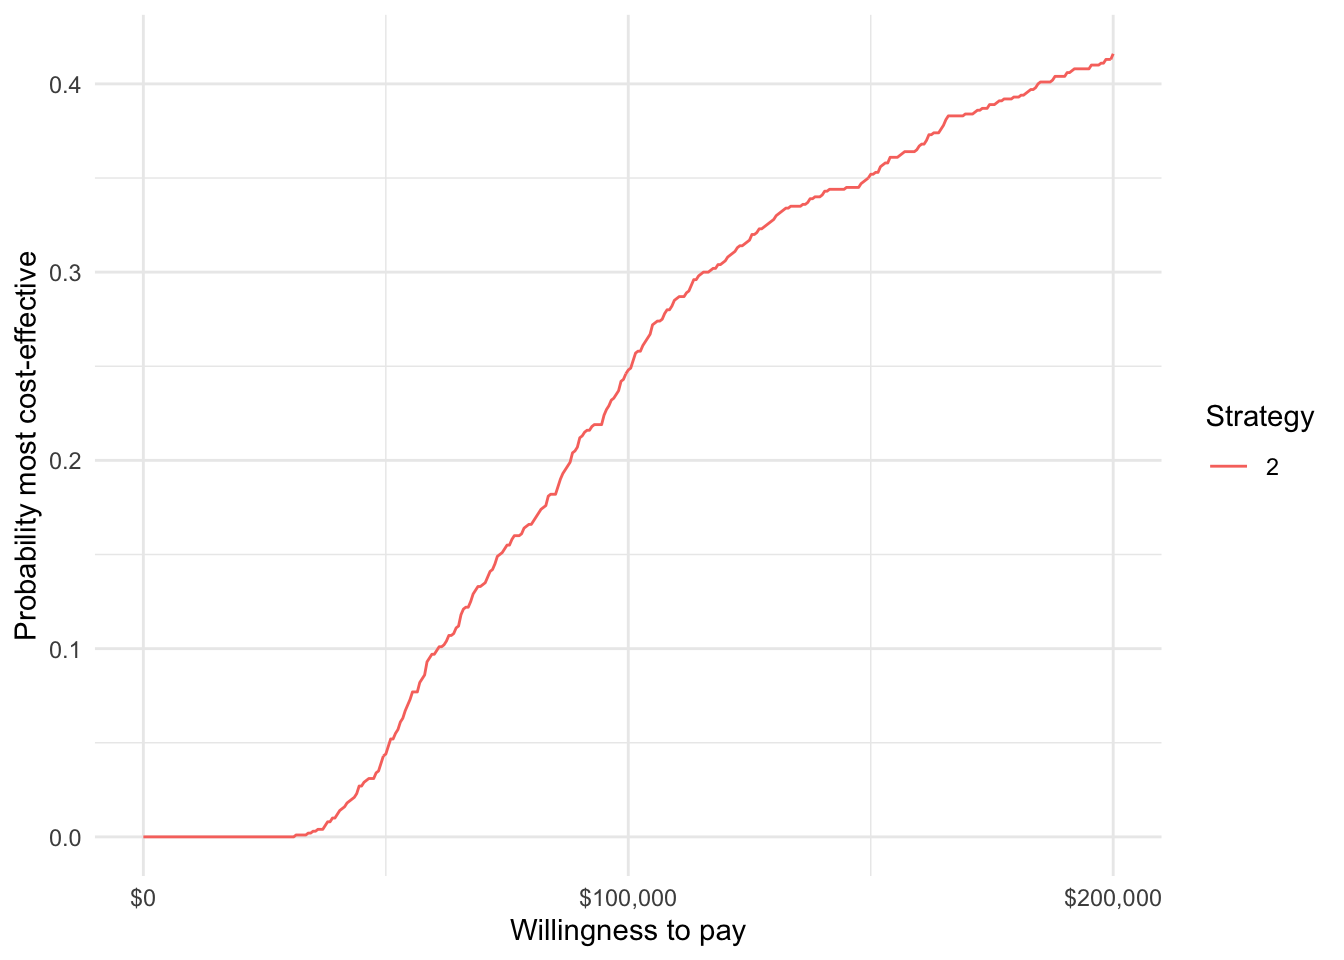
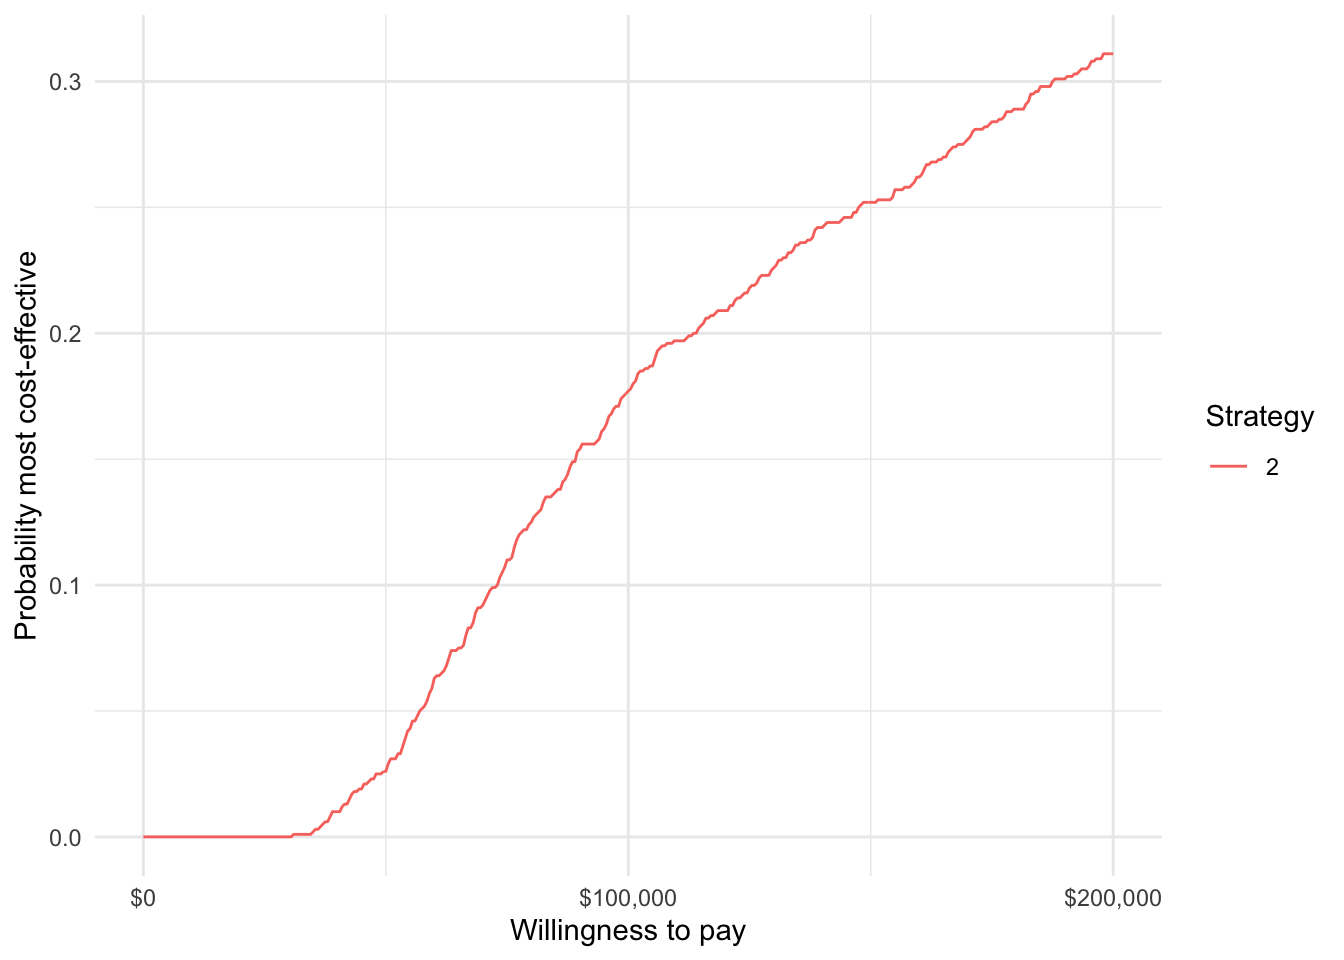
Fix errors from Travis build

diff --git a/docs/dev/articles/intro.html b/docs/dev/articles/intro.html
@@ -199,17 +199,17 @@ Individual-level continuous time state transition model (iCTSTM)
 ## 
 ## $patients
 ##       patient_id      age female
-##    1:          1 40.21585      1
-##    2:          2 36.96125      0
-##    3:          3 48.92418      0
-##    4:          4 50.23832      1
-##    5:          5 40.83059      1
+##    1:          1 40.28067      1
+##    2:          2 48.09711      1
+##    3:          3 35.23541      1
+##    4:          4 41.44403      1
+##    5:          5 45.52459      1
 ##   ---                           
-##  996:        996 39.02014      1
-##  997:        997 42.86669      1
-##  998:        998 42.91595      0
-##  999:        999 43.41412      1
-## 1000:       1000 50.29658      0
+##  996:        996 41.36511      1
+##  997:        997 43.96101      1
+##  998:        998 56.29249      0
+##  999:        999 56.32596      1
+## 1000:       1000 40.10561      0
 ## 
 ## $states
 ##    state_id state_name
@@ -318,7 +318,7 @@ Multi-state model (transition-specific)
 <p>Disease models can either be fit from an explicit statistical model or through mathematical expressions. In the first case, the easiest way to parameterize a disease model is by fitting a statistical model using <code>R</code>. For example, survival models and multi-state models can be fit using <code><a href="https://www.rdocumentation.org/packages/flexsurv/topics/flexsurvreg">flexsurv::flexsurvreg()</a></code> while multinomial logistic regressions can be fit with <code><a href="https://www.rdocumentation.org/packages/nnet/topics/multinom">nnet::multinom()</a></code>. In other cases, the disease models will not be fit directly with <code>R</code>, but the estimates of a disease model can be directly stored in parameter (<code><a href="../reference/params.html">hesim::params</a></code>) or transformed parameter (<code><a href="../reference/tparams.html">hesim::tparams</a></code>) objects. In the second case, an entire model (encompassing disease progression, costs, and utility) can be defined in terms of mathematical expressions with <code><a href="../reference/define_model.html">hesim::define_model()</a></code>.</p>
 <p>We will illustrate an example of a statistical model of disease progression fit with <code>R</code> by estimating a multi-state model with a joint likelihood using <code><a href="https://www.rdocumentation.org/packages/flexsurv/topics/flexsurvreg">flexsurv::flexsurvreg()</a></code>.</p>
 <div class="sourceCode" id="cb3"><pre class="sourceCode r"><code class="sourceCode r"><span id="cb3-1"><a href="#cb3-1"></a><span class="kw"><a href="https://www.rdocumentation.org/packages/base/topics/library">library</a></span>(<span class="st">"flexsurv"</span>)</span>
-<span id="cb3-2"><a href="#cb3-2"></a>mstate_data &lt;-<span class="st"> </span><span class="kw"><a href="https://www.rdocumentation.org/packages/data.table/topics/data.table">data.table</a></span>(ctstm3_exdata<span class="op">$</span>transitions)</span>
+<span id="cb3-2"><a href="#cb3-2"></a>mstate_data &lt;-<span class="st"> </span><span class="kw"><a href="https://www.rdocumentation.org/packages/data.table/topics/data.table">data.table</a></span>(mstate3_exdata<span class="op">$</span>transitions)</span>
 <span id="cb3-3"><a href="#cb3-3"></a>mstate_data[, trans <span class="op">:</span><span class="er">=</span><span class="st"> </span><span class="kw"><a href="https://www.rdocumentation.org/packages/base/topics/factor">factor</a></span>(trans)]</span>
 <span id="cb3-4"><a href="#cb3-4"></a>fit_wei &lt;-<span class="st"> </span>flexsurv<span class="op">::</span><span class="kw"><a href="https://www.rdocumentation.org/packages/flexsurv/topics/flexsurvreg">flexsurvreg</a></span>(<span class="kw">Surv</span>(years, status) <span class="op">~</span><span class="st"> </span>trans <span class="op">+</span><span class="st"> </span></span>
 <span id="cb3-5"><a href="#cb3-5"></a><span class="st">                                                       </span><span class="kw"><a href="https://www.rdocumentation.org/packages/base/topics/factor">factor</a></span>(strategy_id)<span class="op">:</span>trans <span class="op">+</span></span>
@@ -372,19 +372,19 @@ Linear model
 <p>Linear models are fit using <code><a href="https://www.rdocumentation.org/packages/stats/topics/lm">stats::lm()</a></code>. Predicted means are most easily constructed from a <code><a href="../reference/stateval_tbl.html">hesim::stateval_tbl</a></code> object, which is a special object used to assign values to health states. The table allows users to specify mean values that can vary across health states, treatment strategies, patients, and/or time intervals. State values can be specified either as moments (i.e., mean and standard error) or parameters (e.g., shape and scale of gamma distribution) of a probability distribution, or by pre-simulating values from a suitable probability distribution. Here we will use <code><a href="../reference/stateval_tbl.html">hesim::stateval_tbl</a></code> objects for utility and two cost categories (drug and medical).</p>
 <div class="sourceCode" id="cb4"><pre class="sourceCode r"><code class="sourceCode r"><span id="cb4-1"><a href="#cb4-1"></a><span class="co"># Utility</span></span>
 <span id="cb4-2"><a href="#cb4-2"></a>utility_tbl &lt;-<span class="st"> </span><span class="kw"><a href="../reference/stateval_tbl.html">stateval_tbl</a></span>(<span class="kw"><a href="https://www.rdocumentation.org/packages/data.table/topics/data.table">data.table</a></span>(<span class="dt">state_id =</span> states<span class="op">$</span>state_id,</span>
-<span id="cb4-3"><a href="#cb4-3"></a>                                       <span class="dt">mean =</span> ctstm3_exdata<span class="op">$</span>utility<span class="op">$</span>mean,</span>
-<span id="cb4-4"><a href="#cb4-4"></a>                                       <span class="dt">se =</span> ctstm3_exdata<span class="op">$</span>utility<span class="op">$</span>se),</span>
+<span id="cb4-3"><a href="#cb4-3"></a>                                       <span class="dt">mean =</span> mstate3_exdata<span class="op">$</span>utility<span class="op">$</span>mean,</span>
+<span id="cb4-4"><a href="#cb4-4"></a>                                       <span class="dt">se =</span> mstate3_exdata<span class="op">$</span>utility<span class="op">$</span>se),</span>
 <span id="cb4-5"><a href="#cb4-5"></a>                            <span class="dt">dist =</span> <span class="st">"beta"</span>,</span>
 <span id="cb4-6"><a href="#cb4-6"></a>                            <span class="dt">hesim_data =</span> hesim_dat)</span>
 <span id="cb4-7"><a href="#cb4-7"></a></span>
 <span id="cb4-8"><a href="#cb4-8"></a><span class="co"># Costs</span></span>
 <span id="cb4-9"><a href="#cb4-9"></a>drugcost_tbl &lt;-<span class="st"> </span><span class="kw"><a href="../reference/stateval_tbl.html">stateval_tbl</a></span>(<span class="kw"><a href="https://www.rdocumentation.org/packages/data.table/topics/data.table">data.table</a></span>(<span class="dt">strategy_id =</span> strategies<span class="op">$</span>strategy_id,</span>
-<span id="cb4-10"><a href="#cb4-10"></a>                                       <span class="dt">est =</span> ctstm3_exdata<span class="op">$</span>costs<span class="op">$</span>drugs<span class="op">$</span>costs),</span>
+<span id="cb4-10"><a href="#cb4-10"></a>                                       <span class="dt">est =</span> mstate3_exdata<span class="op">$</span>costs<span class="op">$</span>drugs<span class="op">$</span>costs),</span>
 <span id="cb4-11"><a href="#cb4-11"></a>                            <span class="dt">dist =</span> <span class="st">"fixed"</span>,</span>
 <span id="cb4-12"><a href="#cb4-12"></a>                            <span class="dt">hesim_data =</span> hesim_dat) </span>
 <span id="cb4-13"><a href="#cb4-13"></a>medcost_tbl &lt;-<span class="st"> </span><span class="kw"><a href="../reference/stateval_tbl.html">stateval_tbl</a></span>(<span class="kw"><a href="https://www.rdocumentation.org/packages/data.table/topics/data.table">data.table</a></span>(<span class="dt">state_id =</span> states<span class="op">$</span>state_id,</span>
-<span id="cb4-14"><a href="#cb4-14"></a>                                       <span class="dt">mean =</span> ctstm3_exdata<span class="op">$</span>costs<span class="op">$</span>medical<span class="op">$</span>mean,</span>
-<span id="cb4-15"><a href="#cb4-15"></a>                                       <span class="dt">se =</span> ctstm3_exdata<span class="op">$</span>costs<span class="op">$</span>medical<span class="op">$</span>se),</span>
+<span id="cb4-14"><a href="#cb4-14"></a>                                       <span class="dt">mean =</span> mstate3_exdata<span class="op">$</span>costs<span class="op">$</span>medical<span class="op">$</span>mean,</span>
+<span id="cb4-15"><a href="#cb4-15"></a>                                       <span class="dt">se =</span> mstate3_exdata<span class="op">$</span>costs<span class="op">$</span>medical<span class="op">$</span>se),</span>
 <span id="cb4-16"><a href="#cb4-16"></a>                            <span class="dt">dist =</span> <span class="st">"gamma"</span>,</span>
 <span id="cb4-17"><a href="#cb4-17"></a>                            <span class="dt">hesim_data =</span> hesim_dat)  </span></code></pre></div>
 </div>
@@ -467,12 +467,12 @@ Cost model(s)
 <span id="cb6-2"><a href="#cb6-2"></a>                        <span class="dt">by =</span> <span class="kw"><a href="https://www.rdocumentation.org/packages/base/topics/c">c</a></span>(<span class="st">"strategies"</span>, <span class="st">"patients"</span>, <span class="st">"transitions"</span>))</span>
 <span id="cb6-3"><a href="#cb6-3"></a><span class="kw"><a href="https://www.rdocumentation.org/packages/utils/topics/head">head</a></span>(transmod_data)</span></code></pre></div>
 <pre><code>##    strategy_id patient_id transition_id      age female from to from_name
-## 1:           1          1             1 40.21585      1    1  2   Healthy
-## 2:           1          1             2 40.21585      1    1  3   Healthy
-## 3:           1          1             3 40.21585      1    2  1      Sick
-## 4:           1          1             4 40.21585      1    2  3      Sick
-## 5:           1          2             1 36.96125      0    1  2   Healthy
-## 6:           1          2             2 36.96125      0    1  3   Healthy
+## 1:           1          1             1 40.28067      1    1  2   Healthy
+## 2:           1          1             2 40.28067      1    1  3   Healthy
+## 3:           1          1             3 40.28067      1    2  1      Sick
+## 4:           1          1             4 40.28067      1    2  3      Sick
+## 5:           1          2             1 48.09711      1    1  2   Healthy
+## 6:           1          2             2 48.09711      1    1  3   Healthy
 ##    to_name trans
 ## 1:    Sick     1
 ## 2:    Dead     2
@@ -580,43 +580,43 @@ $sim_costs()
 <div class="sourceCode" id="cb14"><pre class="sourceCode r"><code class="sourceCode r"><span id="cb14-1"><a href="#cb14-1"></a>ictstm<span class="op">$</span><span class="kw">sim_disease</span>()</span>
 <span id="cb14-2"><a href="#cb14-2"></a><span class="kw"><a href="https://www.rdocumentation.org/packages/utils/topics/head">head</a></span>(ictstm<span class="op">$</span>disprog_)</span></code></pre></div>
 <pre><code>##    sample strategy_id patient_id grp_id from to final time_start time_stop
-## 1:      1           1          1      1    1  2     0   0.000000  9.031774
-## 2:      1           1          1      1    2  1     0   9.031774 10.743450
-## 3:      1           1          1      1    1  2     0  10.743450 11.351767
-## 4:      1           1          1      1    2  1     0  11.351767 15.359618
-## 5:      1           1          1      1    1  2     0  15.359618 15.534958
-## 6:      1           1          1      1    2  1     0  15.534958 16.379295</code></pre>
+## 1:      1           1          1      1    1  3     1   0.000000 13.886559
+## 2:      1           1          2      1    1  2     0   0.000000  2.457967
+## 3:      1           1          2      1    2  1     0   2.457967  2.874922
+## 4:      1           1          2      1    1  2     0   2.874922  5.359380
+## 5:      1           1          2      1    2  1     0   5.359380  5.461666
+## 6:      1           1          2      1    1  2     0   5.461666  7.149314</code></pre>
 <p>The disease trajectory can be summarized with <code>$sim_stateprobs()</code>.</p>
 <div class="sourceCode" id="cb16"><pre class="sourceCode r"><code class="sourceCode r"><span id="cb16-1"><a href="#cb16-1"></a>ictstm<span class="op">$</span><span class="kw">sim_stateprobs</span>(<span class="dt">t =</span> <span class="kw"><a href="https://www.rdocumentation.org/packages/base/topics/c">c</a></span>(<span class="dv">0</span><span class="op">:</span><span class="dv">10</span>))</span>
 <span id="cb16-2"><a href="#cb16-2"></a><span class="kw"><a href="https://www.rdocumentation.org/packages/utils/topics/head">head</a></span>(ictstm<span class="op">$</span>stateprobs_)</span></code></pre></div>
 <pre><code>##    sample strategy_id grp_id state_id t  prob
 ## 1:      1           1      1        1 0 1.000
-## 2:      1           1      1        1 1 0.897
-## 3:      1           1      1        1 2 0.802
-## 4:      1           1      1        1 3 0.742
-## 5:      1           1      1        1 4 0.682
-## 6:      1           1      1        1 5 0.653</code></pre>
+## 2:      1           1      1        1 1 0.867
+## 3:      1           1      1        1 2 0.794
+## 4:      1           1      1        1 3 0.711
+## 5:      1           1      1        1 4 0.675
+## 6:      1           1      1        1 5 0.609</code></pre>
 <p>We can then compute costs and QALYs (using a discount rate of 3 percent).</p>
 <div class="sourceCode" id="cb18"><pre class="sourceCode r"><code class="sourceCode r"><span id="cb18-1"><a href="#cb18-1"></a><span class="co"># QALYs</span></span>
 <span id="cb18-2"><a href="#cb18-2"></a>ictstm<span class="op">$</span><span class="kw"><a href="../reference/sim_ev.html">sim_qalys</a></span>(<span class="dt">dr =</span> <span class="fl">.03</span>)</span>
 <span id="cb18-3"><a href="#cb18-3"></a><span class="kw"><a href="https://www.rdocumentation.org/packages/utils/topics/head">head</a></span>(ictstm<span class="op">$</span>qalys_)</span></code></pre></div>
-<pre><code>##    sample strategy_id grp_id state_id   dr    qalys       lys
-## 1:      1           1      1        1 0.03 8.528762 10.417173
-## 2:      1           1      1        2 0.03 1.567915  1.734929
-## 3:      1           2      1        1 0.03 7.501061  9.161922
-## 4:      1           2      1        2 0.03 1.009596  1.117138
-## 5:      2           1      1        1 0.03 5.514620  9.293247
-## 6:      2           1      1        2 0.03 1.575362  1.632139</code></pre>
+<pre><code>##    sample strategy_id grp_id state_id   dr    qalys      lys
+## 1:      1           1      1        1 0.03 4.058282 9.220242
+## 2:      1           1      1        2 0.03 1.568368 1.568416
+## 3:      1           2      1        1 0.03 3.826450 8.693529
+## 4:      1           2      1        2 0.03 1.348586 1.348627
+## 5:      2           1      1        1 0.03 4.679780 9.544911
+## 6:      2           1      1        2 0.03 1.981412 1.981511</code></pre>
 <div class="sourceCode" id="cb20"><pre class="sourceCode r"><code class="sourceCode r"><span id="cb20-1"><a href="#cb20-1"></a><span class="co"># Costs</span></span>
 <span id="cb20-2"><a href="#cb20-2"></a>ictstm<span class="op">$</span><span class="kw"><a href="../reference/sim_ev.html">sim_costs</a></span>(<span class="dt">dr =</span> <span class="fl">.03</span>)</span>
 <span id="cb20-3"><a href="#cb20-3"></a><span class="kw"><a href="https://www.rdocumentation.org/packages/utils/topics/head">head</a></span>(ictstm<span class="op">$</span>costs_)</span></code></pre></div>
 <pre><code>##    sample strategy_id grp_id state_id   dr category     costs
-## 1:      1           1      1        1 0.03    drugs 52085.866
-## 2:      1           1      1        2 0.03    drugs  8674.645
-## 3:      1           2      1        1 0.03    drugs 91619.220
-## 4:      1           2      1        2 0.03    drugs 11171.379
-## 5:      2           1      1        1 0.03    drugs 46466.236
-## 6:      2           1      1        2 0.03    drugs  8160.696</code></pre>
+## 1:      1           1      1        1 0.03    drugs 46101.210
+## 2:      1           1      1        2 0.03    drugs  7842.078
+## 3:      1           2      1        1 0.03    drugs 86935.293
+## 4:      1           2      1        2 0.03    drugs 13486.271
+## 5:      2           1      1        1 0.03    drugs 47724.555
+## 6:      2           1      1        2 0.03    drugs  9907.555</code></pre>
 </div>
 </div>
 <div id="decision-analysis" class="section level1">
@@ -628,31 +628,31 @@ $sim_costs()
 <span id="cb22-2"><a href="#cb22-2"></a><span class="kw"><a href="https://www.rdocumentation.org/packages/base/topics/print">print</a></span>(ce)</span></code></pre></div>
 <pre><code>## $costs
 ##       category   dr sample strategy_id     costs grp_id
-##    1:    drugs 0.03      1           1  60760.51      1
-##    2:    drugs 0.03      1           2 102790.60      1
-##    3:    drugs 0.03      2           1  54626.93      1
-##    4:    drugs 0.03      2           2 123754.14      1
-##    5:    drugs 0.03      3           1  49617.28      1
+##    1:    drugs 0.03      1           1  53943.29      1
+##    2:    drugs 0.03      1           2 100421.56      1
+##    3:    drugs 0.03      2           1  57632.11      1
+##    4:    drugs 0.03      2           2 118964.12      1
+##    5:    drugs 0.03      3           1  52624.09      1
 ##   ---                                                  
-## 5996:    total 0.03    998           2 126178.37      1
-## 5997:    total 0.03    999           1  51958.81      1
-## 5998:    total 0.03    999           2 101093.95      1
-## 5999:    total 0.03   1000           1  63172.81      1
-## 6000:    total 0.03   1000           2 109054.24      1
+## 5996:    total 0.03    998           2 112553.46      1
+## 5997:    total 0.03    999           1  71945.10      1
+## 5998:    total 0.03    999           2 112757.48      1
+## 5999:    total 0.03   1000           1  61873.18      1
+## 6000:    total 0.03   1000           2 112746.63      1
 ## 
 ## $qalys
-##         dr sample strategy_id     qalys grp_id
-##    1: 0.03      1           1 10.096677      1
-##    2: 0.03      1           2  8.510657      1
-##    3: 0.03      2           1  7.089982      1
-##    4: 0.03      2           2  7.870806      1
-##    5: 0.03      3           1  7.383630      1
-##   ---                                         
-## 1996: 0.03    998           2  8.734210      1
-## 1997: 0.03    999           1  5.731165      1
-## 1998: 0.03    999           2  5.977089      1
-## 1999: 0.03   1000           1  9.267317      1
-## 2000: 0.03   1000           2  8.796343      1
+##         dr sample strategy_id    qalys grp_id
+##    1: 0.03      1           1 5.626650      1
+##    2: 0.03      1           2 5.175036      1
+##    3: 0.03      2           1 6.661192      1
+##    4: 0.03      2           2 6.512560      1
+##    5: 0.03      3           1 6.560432      1
+##   ---                                        
+## 1996: 0.03    998           2 7.955253      1
+## 1997: 0.03    999           1 8.780685      1
+## 1998: 0.03    999           2 7.481328      1
+## 1999: 0.03   1000           1 4.538649      1
+## 2000: 0.03   1000           2 4.550219      1
 ## 
 ## attr(,"class")
 ## [1] "ce"</code></pre>
